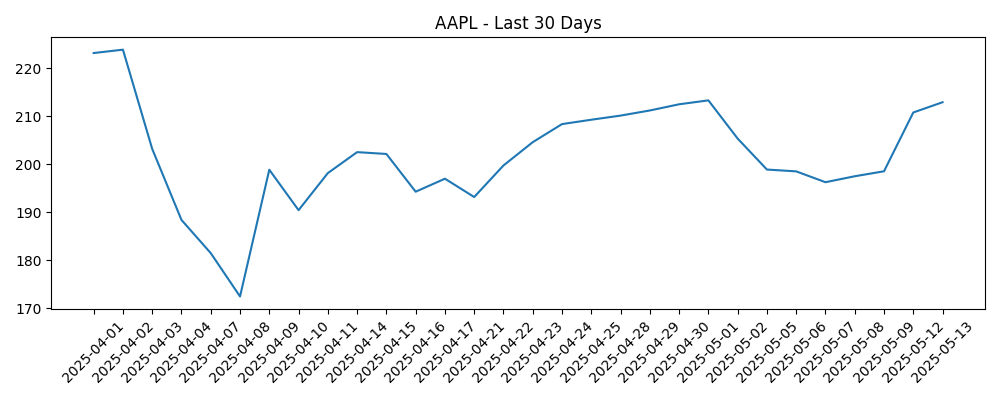
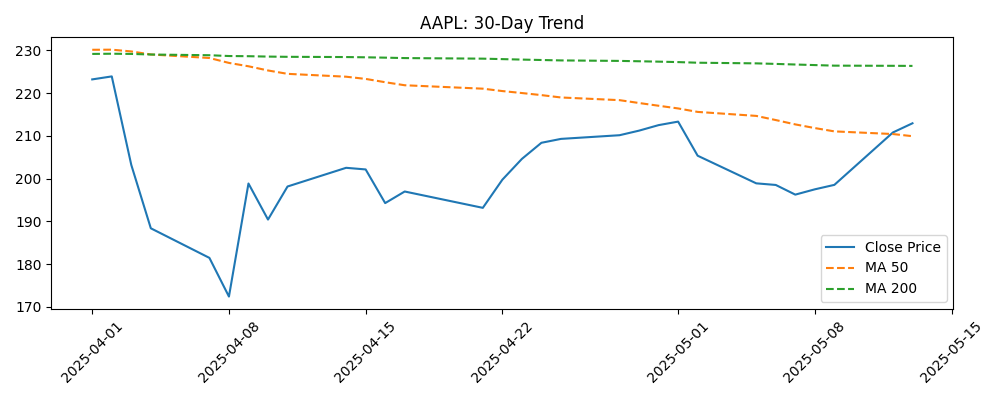
Fixed issues with API fetching and updated styling

diff --git a/flask_app/static/css/style.css b/flask_app/static/css/style.css
@@ -1,0 +1,83 @@
+body {
+    font-family: 'Segoe UI', Tahoma, Geneva, Verdana, sans-serif;
+    margin: 40px;
+    background-color: #f4f7f9;
+    color: #333;
+}
+
+h1 {
+    font-size: 2em;
+    color: #1a1a1a;
+    text-align: center;
+    margin-bottom: 1.5em;
+}
+
+form {
+    display: flex;
+    justify-content: center;
+    align-items: center;
+    gap: 10px;
+}
+
+input[type="text"] {
+    padding: 0.5em;
+    font-size: 1em;
+    border: 1px solid #ccc;
+    border-radius: 5px;
+}
+
+input[type="submit"], button {
+    padding: 0.5em 1em;
+    font-size: 1em;
+    border: none;
+    background-color: #007BFF;
+    color: white;
+    border-radius: 5px;
+    cursor: pointer;
+}
+
+input[type="submit"]:hover, button:hover {
+    background-color: #0056b3;
+}
+
+p {
+    font-size: 1.1em;
+    margin: 0.5em 0;
+    text-align: center;
+}
+
+strong {
+    color: #000;
+}
+
+img {
+    display: block;
+    margin: 20px auto;
+    max-width: 90%;
+}
+
+a {
+    display: block;
+    text-align: center;
+    margin-top: 20px;
+    color: #007BFF;
+    text-decoration: none;
+}
+
+a:hover {
+    text-decoration: underline;
+}
+
+.error {
+    color: red;
+    text-align: center;
+}
+
+#loading {
+    display: none;
+    font-size: 1em;
+    font-weight: bold;
+    color: #333;
+    text-align: center;
+    margin-top: 20px;
+}

diff --git a/flask_app/templates/result.html b/flask_app/templates/result.html
@@ -1,9 +1,23 @@
 <!DOCTYPE html>
 <html>
-<head><title>{{ ticker }} Results</title></head>
+<head>
+    <title>{{ ticker if ticker else "Stock" }} Results</title>
+    <link rel="stylesheet" href="{{ url_for('static', filename='css/style.css') }}">
+</head>
+
 <body>
-    <h1>{{ ticker }} Stock Info</h1>
-    <img src="{{ url_for('static', filename='plots/' + ticker + '.png') }}" alt="Stock Plot">
+    <h1>{{ ticker if ticker else "Unknown Ticker" }} Stock Info</h1>
+
+    {% if error %}
+        <p class="error">{{ error }}</p>
+    {% else %}
+        <img src="{{ url_for('static', filename='plots/' + ticker + '.png') }}" alt="Stock Plot">
+        <p><strong>Latest Price:</strong> ${{ latest_price }}</p>
+        <p><strong>50-Day Moving Avg:</strong> ${{ ma_50 }}</p>
+        <p><strong>200-Day Moving Avg:</strong> ${{ ma_200 }}</p>
+        <p><strong>P/E Ratio:</strong> {{ pe_ratio }}</p>
+    {% endif %}
+
     <br><a href="{{ url_for('routes.index') }}">Back</a>
 </body>
 </html>

diff --git a/flask_app/templates/index.html b/flask_app/templates/index.html
@@ -1,6 +1,18 @@
 <!DOCTYPE html>
 <html>
-<head><title>Stock Retriever</title></head>
+<head>
+    <title>Stock Retriever</title>
+    <link rel="stylesheet" href="{{ url_for('static', filename='css/style.css') }}">
+    <style>
+        #loading {
+            display: none;
+            font-size: 1rem;
+            color: #333;
+            margin-top: 1rem;
+        }
+    </style>
+</head>
+
 <body>
     <h1>Enter Stock Ticker</h1>
     <form method="POST">
@@ -8,5 +20,14 @@
         {{ form.ticker.label }} {{ form.ticker() }}
         {{ form.submit() }}
     </form>
+
+    <p id="loading">Please wait while your stock data is fetched...</p>
+
+    <script>
+        document.querySelector("form").addEventListener("submit", function () {
+            document.getElementById("loading").style.display = "block";
+        });
+    </script>
+
 </body>
 </html>

diff --git a/flask_app/stock.py b/flask_app/stock.py
@@ -1,24 +1,103 @@
 import requests
 import matplotlib.pyplot as plt
+import pandas as pd
+import time
+from datetime import datetime
+
+# add a cache to help with rate limit issues
+# key = (ticker, date), value = repsonse dict
+stock_cache = {}
 
 def get_stock_data(ticker, api_key):
-    url = f'https://www.alphavantage.co/query'
-    params = {
-        'function': 'TIME_SERIES_DAILY',
-        'symbol': ticker,
-        'apikey': api_key
+
+    today = datetime.today().date()
+    cache_key = (ticker, today)
+
+    # Check if the ticker has been cached
+    if cache_key in stock_cache:
+        print(f"Using cached data for {ticker}")
+        return stock_cache[cache_key]
+    
+    print(f"Fetching new data for {ticker}")
+
+    # First API call, get historical data for moving averages
+    url_prices = "https://www.alphavantage.co/query"
+    params_prices = {
+        "function": "TIME_SERIES_DAILY",
+        "symbol": ticker,
+        "outputsize": "full",
+        "apikey": api_key
     }
-    response = requests.get(url, params=params)
-    return response.json()
+    r = requests.get(url_prices, params=params_prices)
+    #data = r.json().get("Time Series (Daily)", {})
+    json_prices = r.json()
+
+    # check rate limit
+    if "Note" in json_prices or "Error Message" in json_prices:
+        print("FAILED: rate limited or error message in TIME_SERIES_DAILY")
+        return None
+
+    # print(json_prices)
+    data = json_prices.get("Time Series (Daily)", {})
+
+    if not data:
+        print("FAILED: no price data found")
+        return None
+    
+    df = pd.DataFrame(data).T
+    df.index = pd.to_datetime(df.index)
+    df = df.sort_index()
+    df["close"] = df["4. close"].astype(float)
+    print(df.columns)
+
+    # Calculate 50- and 200-day MAs
+    df["ma_50"] = df["close"].rolling(window=50).mean()
+    df["ma_200"] = df["close"].rolling(window=200).mean()
+
+    latest = df.iloc[-1]
+
+    # Add a delay to prevent rate limits
+    time.sleep(12)
+
+    # Second API call, get P/E Ratio from company overview
+    url_pe = "https://www.alphavantage.co/query"
+    params_pe = {
+        "function": "OVERVIEW",
+        "symbol": ticker,
+        "apikey": api_key
+    }
+    r_pe = requests.get(url_pe, params=params_pe)
+    pe_data = r_pe.json()
+
+    # check for rate limit again
+    if "Note" in pe_data or "Error Message" in pe_data:
+        print("FAILED: rate limited or error message in OVERVIEW call")
+        return None
+
+    pe_ratio = pe_data.get("PERatio", "N/A")
+
+    result = {
+        "df": df,
+        "latest_price": latest["close"],
+        "ma_50": latest["ma_50"],
+        "ma_200": latest["ma_200"],
+        "pe_ratio": pe_ratio
+    }
+
+    # Save the result to cache
+    stock_cache[cache_key] = result
+
+    return result
+
 
 def generate_plot(data, ticker):
-    time_series = data.get('Time Series (Daily)', {})
-    dates = list(time_series.keys())[:30]
-    closes = [float(time_series[date]['4. close']) for date in dates]
-
+    df = data["df"]
     plt.figure(figsize=(10, 4))
-    plt.plot(dates[::-1], closes[::-1])
-    plt.title(f"{ticker.upper()} - Last 30 Days")
+    plt.plot(df.index[-30:], df["close"].tail(30), label="Close Price")
+    plt.plot(df.index[-30:], df["ma_50"].tail(30), label="MA 50", linestyle="--")
+    plt.plot(df.index[-30:], df["ma_200"].tail(30), label="MA 200", linestyle="--")
+    plt.legend()
+    plt.title(f"{ticker.upper()}: 30-Day Trend")
     plt.xticks(rotation=45)
     plt.tight_layout()
     plot_path = f"flask_app/static/plots/{ticker}.png"

diff --git a/flask_app/routes/routes.py b/flask_app/routes/routes.py
@@ -11,7 +11,25 @@ def index():
     if form.validate_on_submit():
         ticker = form.ticker.data.upper()
         api_key = current_app.config['ALPHA_VANTAGE_API_KEY']
-        data = get_stock_data(ticker, api_key)
-        plot_url = generate_plot(data, ticker)
-        return render_template('result.html', form=form, plot_url=plot_url, ticker=ticker)
+        stock_data = get_stock_data(ticker, api_key)
+
+        if not stock_data:
+            return render_template(
+                'result.html', 
+                error="Alpha Vantage request failed (possibly rate-limited or invalid ticker). Try again shortly.", 
+                form=form, 
+                ticker="Unknown")
+
+        df = stock_data["df"]
+        plot_url = generate_plot(stock_data, ticker)
+        return render_template(
+            'result.html', 
+            form=form, 
+            plot_url=plot_url, 
+            ticker=ticker, 
+            latest_price=round(stock_data["latest_price"], 2), 
+            ma_50=round(stock_data['ma_50'], 2),
+            ma_200=round(stock_data["ma_200"], 2),
+            pe_ratio=stock_data["pe_ratio"]
+        )
     return render_template('index.html', form=form)
